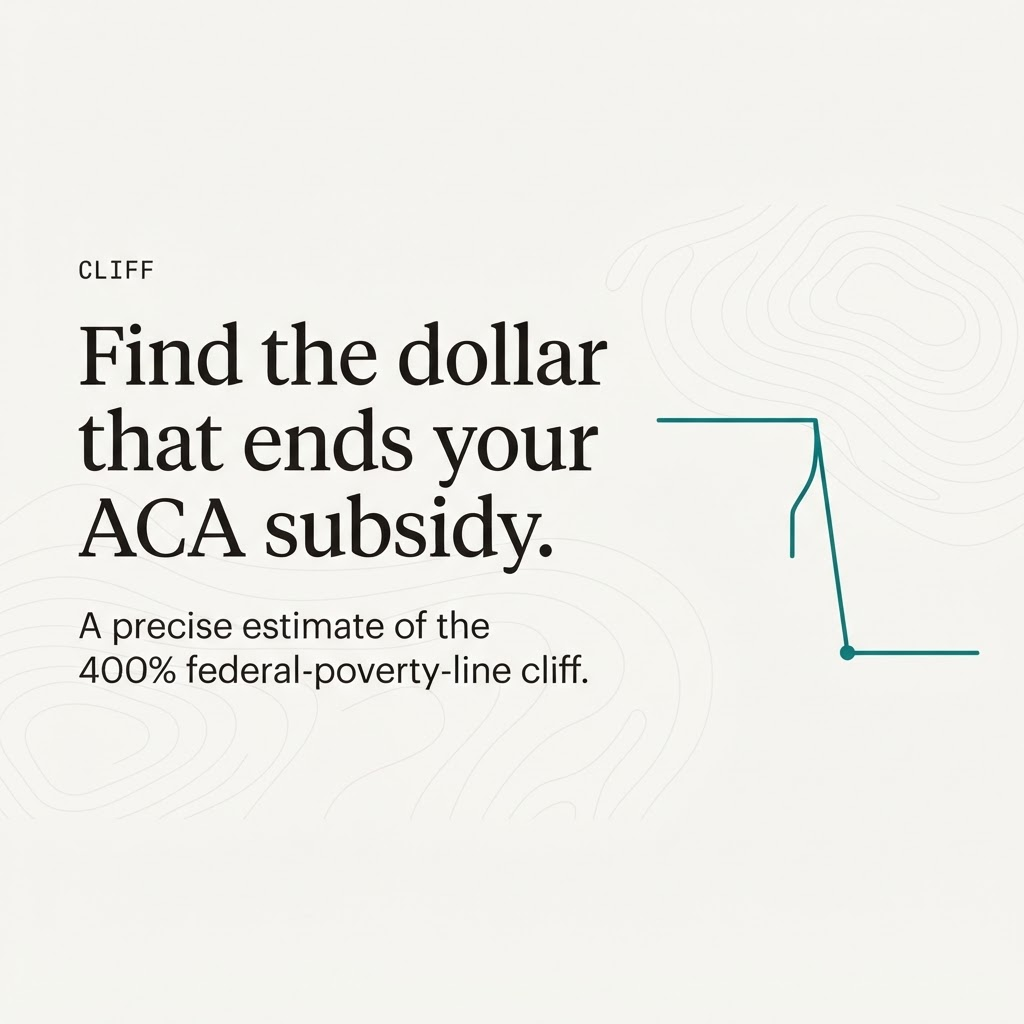
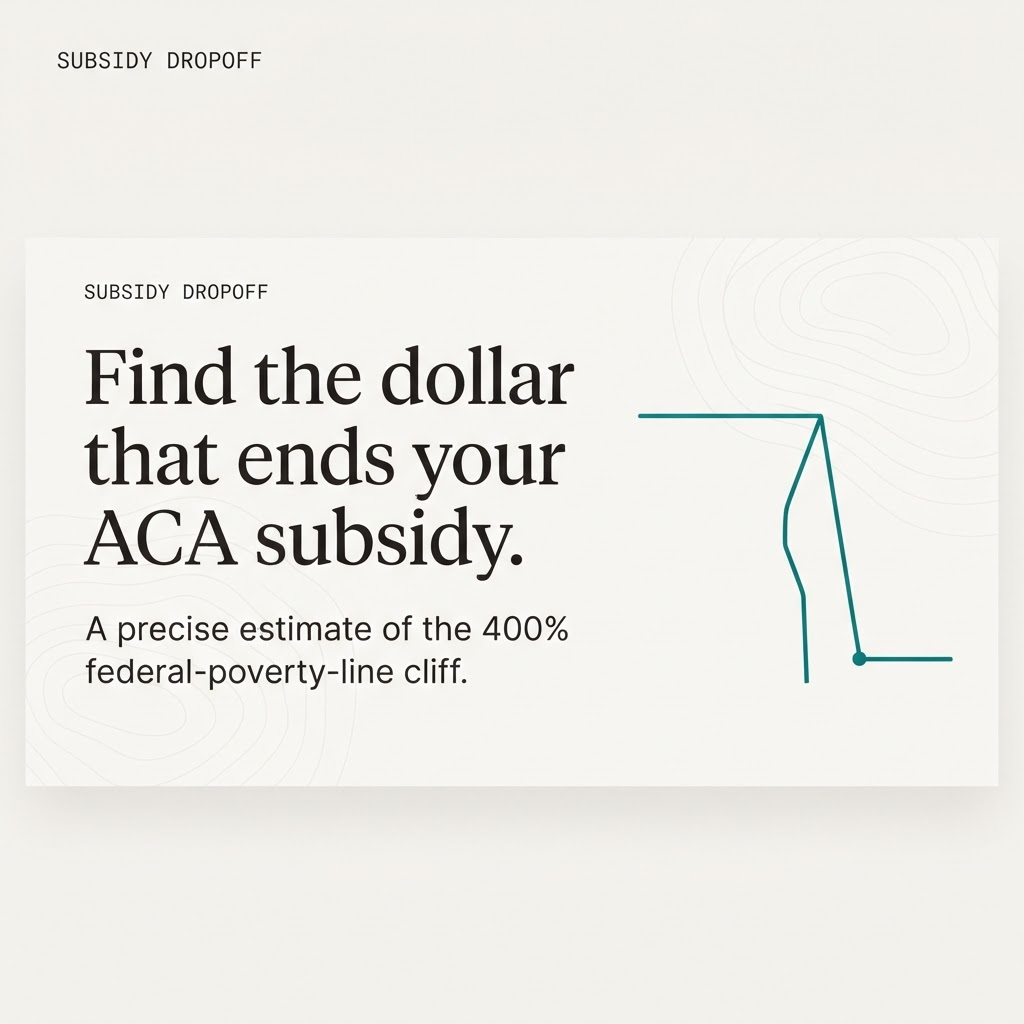
feat: rebrand to "Subsidy Dropoff" across all files

diff --git a/app/methodology/page.tsx b/app/methodology/page.tsx
@@ -1,5 +1,6 @@
 import type { Metadata } from "next"
 import Link from "next/link"
+import Image from "next/image"
 import { SiteHeader } from "@/components/site-header"
 import { SiteFooter } from "@/components/site-footer"
 import { Eyebrow } from "@/components/ui/figure"
@@ -8,7 +9,7 @@ import { buttonVariants } from "@/components/ui/button"
 export const metadata: Metadata = {
   title: "Methodology & sources",
   description:
-    "How Cliff computes the ACA premium tax credit and the 400% subsidy cliff: the statute, the applicable-percentage table, the poverty guidelines, and every source with its publication date.",
+    "How Subsidy Dropoff computes the ACA premium tax credit and the 400% subsidy cliff: the statute, the applicable-percentage table, the poverty guidelines, and every source with its publication date.",
 }
 
 const SECTIONS = [
@@ -36,6 +37,21 @@ export default function MethodologyPage() {
               underlying data is verified and where it is not.
             </p>
           </div>
+
+          <figure className="mb-12 md:mb-16">
+            <div className="relative aspect-[21/9] w-full overflow-hidden rounded-xl border border-border bg-muted">
+              <Image
+                src="/photos/methodology-terrain.png"
+                alt="Aerial view of eroded ridgelines cut into warm rock, resembling the parallel lines of a topographic contour map."
+                fill
+                sizes="(max-width: 1152px) 100vw, 1104px"
+                className="object-cover object-center"
+              />
+            </div>
+            <figcaption className="mt-3 font-mono text-xs uppercase tracking-wider text-muted-foreground">
+              Every contour here has a source. So does every figure on this site.
+            </figcaption>
+          </figure>
 
           <div className="grid gap-12 lg:grid-cols-[220px_1fr] lg:gap-16">
             <nav aria-label="On this page" className="hidden lg:block">
@@ -120,7 +136,7 @@ export default function MethodologyPage() {
                   you were receiving at the edge: the whole thing, gone at once.
                 </p>
                 <p>
-                  Cliff finds that income precisely for your household, reports the credit lost at
+                  Subsidy Dropoff finds that income precisely for your household, reports the credit lost at
                   the edge, and measures your headroom — how much more income you can take on before
                   you reach it. Capital gains, Roth conversions, and year-end bonuses all count
                   against that headroom.
@@ -132,11 +148,11 @@ export default function MethodologyPage() {
                   Benchmark premiums come from the CMS public use files for federally-facilitated
                   Marketplace states. Where a state runs its own exchange — California, New York,
                   and others — those premiums are not in the federal files, and those states often
-                  add their own assistance on top of the federal credit. Rather than guess, Cliff
-                  tells you so and sends you to your state Marketplace.
+                  add their own assistance on top of the federal credit. Rather than guess, Subsidy
+                  Dropoff tells you so and sends you to your state Marketplace.
                 </p>
                 <p>
-                  When a ZIP spans more than one county, rating areas can differ, so Cliff asks which
+                  When a ZIP spans more than one county, rating areas can differ, so Subsidy Dropoff asks which
                   county rather than picking one. When a plan year&apos;s data has not been published,
                   or a region&apos;s poverty guidelines are not independently verified, the engine
                   returns an error instead of a confident but wrong number.

diff --git a/components/landing/hero.tsx b/components/landing/hero.tsx
@@ -1,4 +1,5 @@
 import Link from "next/link"
+import Image from "next/image"
 import { buttonVariants } from "@/components/ui/button"
 import { Eyebrow } from "@/components/ui/figure"
 import { CliffProfile } from "@/components/cliff-mark"
@@ -7,7 +8,7 @@ export function Hero() {
   return (
     <section className="relative overflow-hidden border-b border-border">
       <div className="topo-texture pointer-events-none absolute inset-0" aria-hidden />
-      <div className="relative mx-auto max-w-6xl px-6 pb-20 pt-16 md:pb-28 md:pt-24">
+      <div className="relative mx-auto max-w-6xl px-6 pb-16 pt-16 md:pb-20 md:pt-24">
         <Eyebrow>ACA premium subsidy · plan year 2026</Eyebrow>
 
         <h1 className="mt-6 max-w-4xl font-serif text-5xl leading-[1.02] tracking-tight md:text-7xl">
@@ -17,8 +18,8 @@ export function Hero() {
 
         <p className="mt-6 max-w-2xl text-lg leading-relaxed text-muted-foreground md:text-xl">
           Earn one dollar over 400% of the federal poverty line and your entire premium tax credit
-          can vanish at once. Cliff shows you exactly where that edge is for your household — and
-          what it costs to step over it.
+          can vanish at once. Subsidy Dropoff shows you exactly where that edge is for your
+          household — and what it costs to step over it.
         </p>
 
         <div className="mt-9 flex flex-col gap-3 sm:flex-row sm:items-center">
@@ -33,11 +34,30 @@ export function Hero() {
         <p className="mt-5 text-sm text-muted-foreground">
           No account. No income figure leaves your device unless you ask for a server estimate.
         </p>
-
-        <div className="pointer-events-none mt-16 md:absolute md:bottom-0 md:right-6 md:mt-0 md:w-[40%]">
-          <CliffProfile className="h-40 w-full text-border md:h-56" />
-        </div>
       </div>
+
+      <figure className="relative mx-auto max-w-6xl px-6 pb-16 md:pb-24">
+        <div className="relative aspect-[16/10] w-full overflow-hidden rounded-xl border border-border bg-muted sm:aspect-[2/1] lg:aspect-[21/9]">
+          <Image
+            src="/photos/hero-cliff.png"
+            alt="An aerial view of a flat clifftop plateau ending in a sheer drop to the ocean far below — the shape of the subsidy cliff."
+            fill
+            priority
+            sizes="(max-width: 1152px) 100vw, 1104px"
+            className="object-cover object-center"
+          />
+          <div
+            className="pointer-events-none absolute inset-0 bg-gradient-to-t from-ink/45 via-transparent to-transparent"
+            aria-hidden
+          />
+          <CliffProfile
+            className="pointer-events-none absolute bottom-0 left-0 h-24 w-2/3 text-ink-foreground/40 md:h-32"
+          />
+        </div>
+        <figcaption className="mt-3 font-mono text-xs uppercase tracking-wider text-muted-foreground">
+          The plateau, the drop, the runout — a subsidy cliff, drawn by erosion.
+        </figcaption>
+      </figure>
     </section>
   )
 }

diff --git a/components/landing/stakes.tsx b/components/landing/stakes.tsx
@@ -1,17 +1,24 @@
+import Image from "next/image"
 import { Eyebrow } from "@/components/ui/figure"
 
 const AUDIENCE = [
   {
     title: "The self-employed",
     body: "A good invoice in December can push your year over the line. The subsidy is reconciled on your tax return — so the surprise arrives in April, not at the pharmacy.",
+    photo: "/photos/persona-freelance.png",
+    alt: "A self-employed person reviewing an invoice at a sunlit desk beside a laptop.",
   },
   {
     title: "Early retirees",
     body: "Living on brokerage withdrawals before Medicare at 65? A single Roth conversion or capital gain can cost more in lost credits than the conversion itself.",
+    photo: "/photos/persona-retiree.png",
+    alt: "A couple in their early sixties walking a coastal bluff path at golden hour.",
   },
   {
     title: "Anyone near 400%",
     body: "The subsidy formula caps your premium at a share of income — right up until it doesn't. At the edge, one dollar of income can erase thousands of dollars of help.",
+    photo: "/photos/persona-owner.png",
+    alt: "A small-business owner shaping clay on a pottery wheel in a warm workshop.",
   },
 ]
 
@@ -46,9 +53,20 @@ export function Stakes() {
 
           <div className="flex flex-col gap-px overflow-hidden rounded-lg border border-border bg-border">
             {AUDIENCE.map((a) => (
-              <div key={a.title} className="bg-card p-6 md:p-8">
-                <h3 className="font-serif text-xl">{a.title}</h3>
-                <p className="mt-2 text-sm leading-relaxed text-muted-foreground">{a.body}</p>
+              <div key={a.title} className="flex items-stretch gap-4 bg-card p-4 sm:gap-5 sm:p-5">
+                <div className="relative aspect-square w-24 shrink-0 overflow-hidden rounded-md bg-muted sm:w-32">
+                  <Image
+                    src={a.photo || "/placeholder.svg"}
+                    alt={a.alt}
+                    fill
+                    sizes="128px"
+                    className="object-cover"
+                  />
+                </div>
+                <div className="flex flex-col justify-center py-1">
+                  <h3 className="font-serif text-xl">{a.title}</h3>
+                  <p className="mt-1.5 text-sm leading-relaxed text-muted-foreground">{a.body}</p>
+                </div>
               </div>
             ))}
           </div>

diff --git a/app/layout.tsx b/app/layout.tsx
@@ -22,10 +22,10 @@ const geistMono = Geist_Mono({
 })
 
 export const metadata: Metadata = {
-  metadataBase: new URL("https://cliff.example"),
+  metadataBase: new URL("https://subsidydropoff.com"),
   title: {
-    default: "Cliff — Find the dollar that ends your ACA subsidy",
-    template: "%s — Cliff",
+    default: "Subsidy Dropoff — Find the dollar that ends your ACA subsidy",
+    template: "%s — Subsidy Dropoff",
   },
   description:
     "A precision tool that finds the exact income at which your ACA premium tax credit disappears at 400% of the federal poverty line — and what crossing that line costs you. Estimates only. Not affiliated with the U.S. government.",
@@ -37,15 +37,17 @@ export const metadata: Metadata = {
     "early retirement health insurance",
   ],
   openGraph: {
-    title: "Cliff — Find the dollar that ends your ACA subsidy",
+    title: "Subsidy Dropoff — Find the dollar that ends your ACA subsidy",
     description:
-      "Since the enhanced premium tax credits lapsed on December 31, 2025, one dollar over 400% of the federal poverty line can cost a household its entire subsidy. Cliff finds that exact dollar.",
+      "Since the enhanced premium tax credits lapsed on December 31, 2025, one dollar over 400% of the federal poverty line can cost a household its entire subsidy. Subsidy Dropoff finds that exact dollar.",
     type: "website",
-    images: [{ url: "/og.png", width: 1200, height: 630, alt: "Cliff — find the dollar that ends your ACA subsidy" }],
+    url: "https://subsidydropoff.com",
+    siteName: "Subsidy Dropoff",
+    images: [{ url: "/og.png", width: 1200, height: 630, alt: "Subsidy Dropoff — find the dollar that ends your ACA subsidy" }],
   },
   twitter: {
     card: "summary_large_image",
-    title: "Cliff — Find the dollar that ends your ACA subsidy",
+    title: "Subsidy Dropoff — Find the dollar that ends your ACA subsidy",
     description:
       "A precise estimate of the income at which your ACA premium tax credit disappears at 400% of the federal poverty line.",
     images: ["/og.png"],

diff --git a/components/site-footer.tsx b/components/site-footer.tsx
@@ -8,8 +8,8 @@ export function SiteFooter() {
         <div className="flex flex-col gap-8 md:flex-row md:items-start md:justify-between">
           <div className="max-w-sm">
             <div className="flex items-center gap-2.5">
-              <CliffMark className="h-5 w-8 text-foreground" />
-              <span className="font-serif text-lg">Cliff</span>
+              <CliffMark className="h-5 w-8 shrink-0 text-foreground" />
+              <span className="font-serif text-lg">Subsidy Dropoff</span>
             </div>
             <p className="mt-3 text-sm leading-relaxed text-muted-foreground">
               A precise estimate of the income at which your ACA premium subsidy ends, and what
@@ -53,7 +53,7 @@ export function SiteFooter() {
             reflect published federal data for the selected plan year.
           </p>
           <p className="mt-4 text-xs text-muted-foreground">
-            © {new Date().getFullYear()} Cliff. Federal poverty guidelines: U.S. Department of Health
+            © {new Date().getFullYear()} Subsidy Dropoff. Federal poverty guidelines: U.S. Department of Health
             &amp; Human Services. Applicable-percentage table: Internal Revenue Service.
           </p>
         </div>

diff --git a/app/page.tsx b/app/page.tsx
@@ -1,4 +1,5 @@
 import Link from "next/link"
+import Image from "next/image"
 import { SiteHeader } from "@/components/site-header"
 import { SiteFooter } from "@/components/site-footer"
 import { Hero } from "@/components/landing/hero"
@@ -28,8 +29,17 @@ export default function HomePage() {
 
 function FinalCta() {
   return (
-    <section className="border-t border-border bg-ink text-ink-foreground">
-      <div className="mx-auto max-w-6xl px-6 py-20 md:py-28">
+    <section className="relative overflow-hidden border-t border-border bg-ink text-ink-foreground">
+      <Image
+        src="/photos/cta-cliff.png"
+        alt=""
+        fill
+        sizes="100vw"
+        aria-hidden
+        className="object-cover object-center opacity-40"
+      />
+      <div className="absolute inset-0 bg-gradient-to-r from-ink via-ink/80 to-ink/40" aria-hidden />
+      <div className="relative mx-auto max-w-6xl px-6 py-20 md:py-28">
         <CliffDivider className="mb-12 h-6 w-full text-ink-foreground/25" />
         <div className="flex flex-col items-start gap-6 md:flex-row md:items-end md:justify-between">
           <h2 className="max-w-2xl text-balance font-serif text-3xl leading-tight md:text-5xl">

diff --git a/components/site-header.tsx b/components/site-header.tsx
@@ -6,9 +6,9 @@ export function SiteHeader() {
   return (
     <header className="sticky top-0 z-40 border-b border-border bg-background/80 backdrop-blur-md">
       <div className="mx-auto flex h-16 max-w-6xl items-center justify-between gap-6 px-6">
-        <Link href="/" className="flex items-center gap-2.5" aria-label="Cliff, home">
-          <CliffMark className="h-6 w-9 text-foreground" />
-          <span className="font-serif text-xl tracking-tight">Cliff</span>
+        <Link href="/" className="flex items-center gap-2.5" aria-label="Subsidy Dropoff, home">
+          <CliffMark className="h-6 w-9 shrink-0 text-foreground" />
+          <span className="font-serif text-lg tracking-tight sm:text-xl">Subsidy Dropoff</span>
         </Link>
 
         <nav className="hidden items-center gap-8 text-sm text-muted-foreground md:flex">

diff --git a/app/globals.css b/app/globals.css
@@ -1,7 +1,7 @@
 @import "tailwindcss";
 
 /*
-  Cliff — design tokens.
+  Subsidy Dropoff — design tokens.
   Light theme is the editorial default; dark is first-class for the app view.
   Signal colours (safe / approaching / over) are reserved EXCLUSIVELY for the
   cliff mechanic and are never used as generic UI colour.
